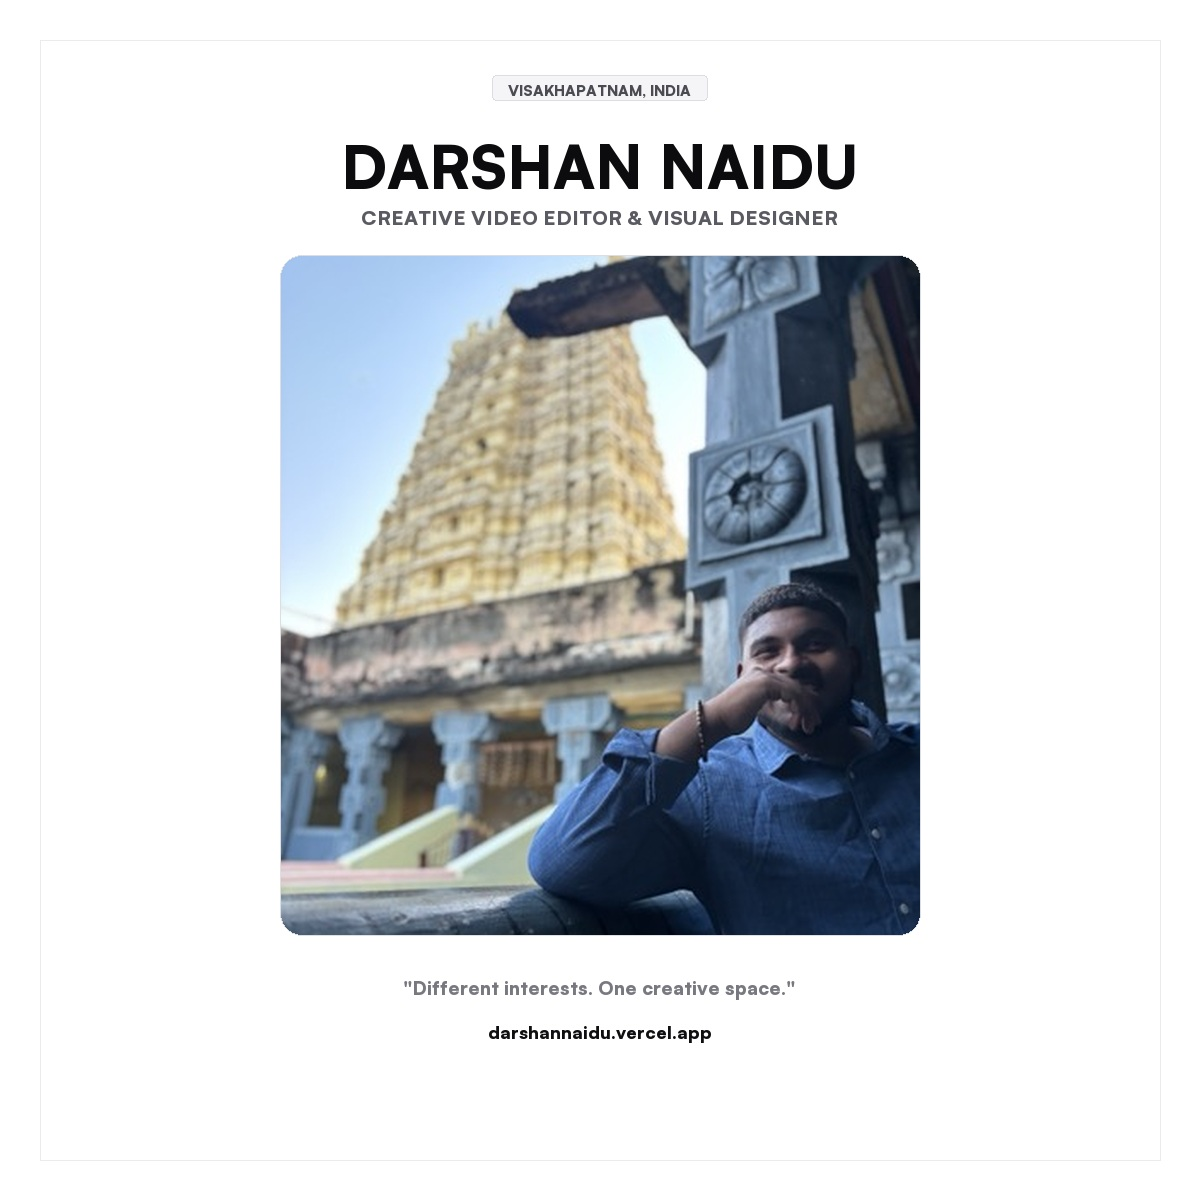
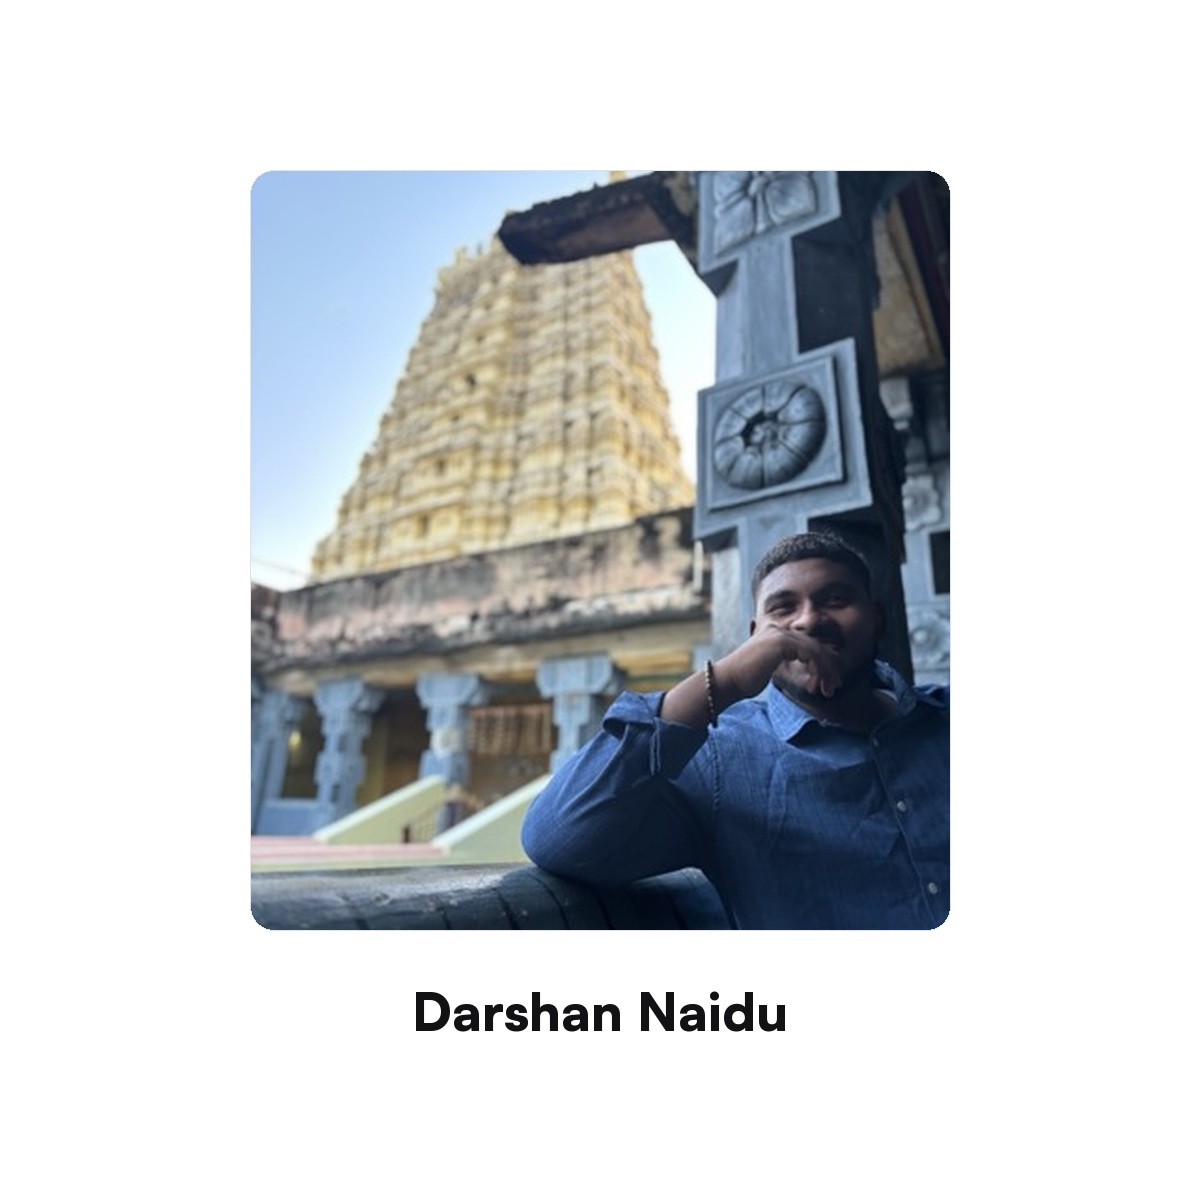
feat(preloader, og): remove image tiles from preloader for clean Darshan Naidu typography, and minimal white square OG card

Changed region(s): [[0.185, 0.1233, 0.8017, 0.8633], [0.4317, 0.0617, 0.5858, 0.0925]]

diff --git a/darshan/index.html b/darshan/index.html
@@ -180,7 +180,8 @@
         }
 
         /* Squircle Card Tile */
-        .image-tile {
+        .image-tile { display: none !important;
+
             position: absolute;
             top: 50%;
             left: 50%;
@@ -217,7 +218,8 @@
         }
 
         @media (prefers-reduced-motion: reduce) {
-            .char-slot, .char-glyph, .image-tile {
+            .char-slot, .char-glyph, .image-tile { display: none !important;
+
                 transition: none !important;
                 animation: none !important;
             }
@@ -230,23 +232,23 @@
         <!-- Figma Auto-Layout Wordmark: Darshan Naidu -->
         <div id="word" class="word-container" aria-label="Darshan Naidu">
             <!-- Darshan (indices 0 to 6) -->
-            <span class="char-slot" data-index="0" data-char="D"><span class="char-glyph">D</span><div class="image-tile"><img src="/assets/images/darshan/darshan.webp" alt=""></div></span>
-            <span class="char-slot" data-index="1" data-char="a"><span class="char-glyph">a</span><div class="image-tile"><img src="/assets/images/darshan/darshan.webp" alt="Darshan Portrait"></div></span>
-            <span class="char-slot" data-index="2" data-char="r"><span class="char-glyph">r</span><div class="image-tile"><img src="/assets/images/darshan/IMG_3763.webp" alt="Work"></div></span>
-            <span class="char-slot" data-index="3" data-char="s"><span class="char-glyph">s</span><div class="image-tile"><img src="/assets/images/darshan/IMG_4192.webp" alt=""></div></span>
-            <span class="char-slot" data-index="4" data-char="h"><span class="char-glyph">h</span><div class="image-tile"><img src="/assets/images/darshan/IMG_4364.webp" alt="Work"></div></span>
-            <span class="char-slot" data-index="5" data-char="a"><span class="char-glyph">a</span><div class="image-tile"><img src="/assets/images/darshan/IMG_6965.webp" alt=""></div></span>
-            <span class="char-slot" data-index="6" data-char="n"><span class="char-glyph">n</span><div class="image-tile"><img src="/assets/images/darshan/IMG_7845.webp" alt=""></div></span>
+            <span class="char-slot" data-index="0" data-char="D"><span class="char-glyph">D</span></span>
+            <span class="char-slot" data-index="1" data-char="a"><span class="char-glyph">a</span></span>
+            <span class="char-slot" data-index="2" data-char="r"><span class="char-glyph">r</span></span>
+            <span class="char-slot" data-index="3" data-char="s"><span class="char-glyph">s</span></span>
+            <span class="char-slot" data-index="4" data-char="h"><span class="char-glyph">h</span></span>
+            <span class="char-slot" data-index="5" data-char="a"><span class="char-glyph">a</span></span>
+            <span class="char-slot" data-index="6" data-char="n"><span class="char-glyph">n</span></span>
 
             <!-- Space separator -->
             <span class="char-space">&nbsp;</span>
 
             <!-- Naidu (indices 7 to 11) -->
-            <span class="char-slot" data-index="7" data-char="N"><span class="char-glyph">N</span><div class="image-tile"><img src="/assets/images/darshan/IMG_8863-EDIT.webp" alt=""></div></span>
-            <span class="char-slot" data-index="8" data-char="a"><span class="char-glyph">a</span><div class="image-tile"><img src="/assets/images/darshan/IMG_2461.webp" alt=""></div></span>
-            <span class="char-slot" data-index="9" data-char="i"><span class="char-glyph">i</span><div class="image-tile"><img src="/assets/images/darshan/IMG_1499.webp" alt="Work"></div></span>
-            <span class="char-slot" data-index="10" data-char="d"><span class="char-glyph">d</span><div class="image-tile"><img src="/assets/images/darshan/IMG_6965.webp" alt="Work"></div></span>
-            <span class="char-slot" data-index="11" data-char="u"><span class="char-glyph">u</span><div class="image-tile"><img src="/assets/images/darshan/IMG_8213.webp" alt=""></div></span>
+            <span class="char-slot" data-index="7" data-char="N"><span class="char-glyph">N</span></span>
+            <span class="char-slot" data-index="8" data-char="a"><span class="char-glyph">a</span></span>
+            <span class="char-slot" data-index="9" data-char="i"><span class="char-glyph">i</span></span>
+            <span class="char-slot" data-index="10" data-char="d"><span class="char-glyph">d</span></span>
+            <span class="char-slot" data-index="11" data-char="u"><span class="char-glyph">u</span></span>
         </div>
     </main>
 
@@ -401,66 +403,24 @@
 
             const tl = gsap.timeline({
                 repeat: -1,
-                repeatDelay: 0.2,
+                repeatDelay: 0.6,
                 defaults: { ease: "power2.out" }
             });
 
-            // ----------------------------------------------------
-            // PHASE A: Clean Initial Opening
-            // ----------------------------------------------------
-            slots.forEach((slot, idx) => {
-                const glyph = slot.querySelector('.char-glyph');
-                const tile = slot.querySelector('.image-tile');
-                tl.set(slot, { width: naturalWidths[idx] || 18, marginLeft: 0, marginRight: 0 }, 0);
-                tl.set(glyph, { opacity: 1, scale: 1 }, 0);
-                tl.set(tile, { opacity: 0, scale: 0.5, width: tileDimension, height: tileDimension }, 0);
-            });
-
-            // ----------------------------------------------------
-            // PHASE B: Card 1 blooms immediately (0.18s - 1.08s)
-            // Solo tile at i(9) in Naidu: "Darshan Na [photo] du"
-            // ----------------------------------------------------
-            setSlotState(tl, 9, { active: true, image: IMAGES.shot1, duration: 0.38 }, 0.18);
-            swapSlotImage(tl, 9, IMAGES.shot2, 0.62, 0.26);
-            setSlotState(tl, 9, { active: false, duration: 0.36 }, 1.08);
-
-            // ----------------------------------------------------
-            // PHASE C: Card 2 blooms in first name (1.20s - 2.05s)
-            // Solo tile at r(2) in Darshan: "Da [photo] shan Naidu"
-            // ----------------------------------------------------
-            setSlotState(tl, 2, { active: true, image: IMAGES.shot3, duration: 0.38 }, 1.20);
-            swapSlotImage(tl, 2, IMAGES.shot4, 1.58, 0.26);
-            setSlotState(tl, 2, { active: false, duration: 0.36 }, 2.05);
-
-            // ----------------------------------------------------
-            // PHASE D: Balanced Dual Bloom (2.18s - 3.12s)
-            // Exactly 1 tile in each word: h(4) in Darshan & d(10) in Naidu
-            // "Dars [photo] an Nai [photo] u"
-            // ----------------------------------------------------
-            setSlotState(tl, 4, { active: true, image: IMAGES.shot5, duration: 0.38 }, 2.18);
-            setSlotState(tl, 10, { active: true, image: IMAGES.shot6, duration: 0.38 }, 2.26);
-            swapSlotImage(tl, 10, IMAGES.shot7, 2.68, 0.26);
-            setSlotState(tl, 4, { active: false, duration: 0.36 }, 3.12);
-            setSlotState(tl, 10, { active: false, duration: 0.36 }, 3.16);
-
-            // ----------------------------------------------------
-            // PHASE E: Solo Hero Card (3.30s - 4.30s)
-            // Celebrations signature move: solo tile right after initial 'D'
-            // "D [Portrait] rshan Naidu"
-            // ----------------------------------------------------
-            setSlotState(tl, 1, { active: true, image: IMAGES.portrait, duration: 0.42 }, 3.30);
-
-            // ----------------------------------------------------
-            // PHASE F: Final Reset (4.30s - 4.70s)
-            // Clean transition back to typography
-            // ----------------------------------------------------
-            setSlotState(tl, 1, { active: false, duration: 0.40 }, 4.30);
-
-            // ----------------------------------------------------
-            // PHASE G: Resting Hold (4.70s - 5.50s)
-            // Crisp, confident pause before next cycle
-            // ----------------------------------------------------
-            tl.to({}, { duration: 0.8 }, 4.70);
+            const glyphs = document.querySelectorAll('.char-glyph');
+            tl.fromTo(glyphs,
+                { opacity: 0.35, y: 3 },
+                { opacity: 1, y: 0, stagger: 0.04, duration: 0.5, ease: "power2.out" },
+                0
+            );
+            tl.to(glyphs,
+                { opacity: 0.85, duration: 0.7, ease: "sine.inOut" },
+                "+=0.4"
+            );
+            tl.to(glyphs,
+                { opacity: 1, duration: 0.6, ease: "sine.inOut" },
+                "+=0.1"
+            );
 
             masterTimeline = tl;
             return tl;

diff --git a/dist/darshan/index.html b/dist/darshan/index.html
@@ -180,7 +180,8 @@
         }
 
         /* Squircle Card Tile */
-        .image-tile {
+        .image-tile { display: none !important;
+
             position: absolute;
             top: 50%;
             left: 50%;
@@ -217,7 +218,8 @@
         }
 
         @media (prefers-reduced-motion: reduce) {
-            .char-slot, .char-glyph, .image-tile {
+            .char-slot, .char-glyph, .image-tile { display: none !important;
+
                 transition: none !important;
                 animation: none !important;
             }
@@ -230,23 +232,23 @@
         <!-- Figma Auto-Layout Wordmark: Darshan Naidu -->
         <div id="word" class="word-container" aria-label="Darshan Naidu">
             <!-- Darshan (indices 0 to 6) -->
-            <span class="char-slot" data-index="0" data-char="D"><span class="char-glyph">D</span><div class="image-tile"><img src="/assets/images/darshan/darshan.webp" alt=""></div></span>
-            <span class="char-slot" data-index="1" data-char="a"><span class="char-glyph">a</span><div class="image-tile"><img src="/assets/images/darshan/darshan.webp" alt="Darshan Portrait"></div></span>
-            <span class="char-slot" data-index="2" data-char="r"><span class="char-glyph">r</span><div class="image-tile"><img src="/assets/images/darshan/IMG_3763.webp" alt="Work"></div></span>
-            <span class="char-slot" data-index="3" data-char="s"><span class="char-glyph">s</span><div class="image-tile"><img src="/assets/images/darshan/IMG_4192.webp" alt=""></div></span>
-            <span class="char-slot" data-index="4" data-char="h"><span class="char-glyph">h</span><div class="image-tile"><img src="/assets/images/darshan/IMG_4364.webp" alt="Work"></div></span>
-            <span class="char-slot" data-index="5" data-char="a"><span class="char-glyph">a</span><div class="image-tile"><img src="/assets/images/darshan/IMG_6965.webp" alt=""></div></span>
-            <span class="char-slot" data-index="6" data-char="n"><span class="char-glyph">n</span><div class="image-tile"><img src="/assets/images/darshan/IMG_7845.webp" alt=""></div></span>
+            <span class="char-slot" data-index="0" data-char="D"><span class="char-glyph">D</span></span>
+            <span class="char-slot" data-index="1" data-char="a"><span class="char-glyph">a</span></span>
+            <span class="char-slot" data-index="2" data-char="r"><span class="char-glyph">r</span></span>
+            <span class="char-slot" data-index="3" data-char="s"><span class="char-glyph">s</span></span>
+            <span class="char-slot" data-index="4" data-char="h"><span class="char-glyph">h</span></span>
+            <span class="char-slot" data-index="5" data-char="a"><span class="char-glyph">a</span></span>
+            <span class="char-slot" data-index="6" data-char="n"><span class="char-glyph">n</span></span>
 
             <!-- Space separator -->
             <span class="char-space">&nbsp;</span>
 
             <!-- Naidu (indices 7 to 11) -->
-            <span class="char-slot" data-index="7" data-char="N"><span class="char-glyph">N</span><div class="image-tile"><img src="/assets/images/darshan/IMG_8863-EDIT.webp" alt=""></div></span>
-            <span class="char-slot" data-index="8" data-char="a"><span class="char-glyph">a</span><div class="image-tile"><img src="/assets/images/darshan/IMG_2461.webp" alt=""></div></span>
-            <span class="char-slot" data-index="9" data-char="i"><span class="char-glyph">i</span><div class="image-tile"><img src="/assets/images/darshan/IMG_1499.webp" alt="Work"></div></span>
-            <span class="char-slot" data-index="10" data-char="d"><span class="char-glyph">d</span><div class="image-tile"><img src="/assets/images/darshan/IMG_6965.webp" alt="Work"></div></span>
-            <span class="char-slot" data-index="11" data-char="u"><span class="char-glyph">u</span><div class="image-tile"><img src="/assets/images/darshan/IMG_8213.webp" alt=""></div></span>
+            <span class="char-slot" data-index="7" data-char="N"><span class="char-glyph">N</span></span>
+            <span class="char-slot" data-index="8" data-char="a"><span class="char-glyph">a</span></span>
+            <span class="char-slot" data-index="9" data-char="i"><span class="char-glyph">i</span></span>
+            <span class="char-slot" data-index="10" data-char="d"><span class="char-glyph">d</span></span>
+            <span class="char-slot" data-index="11" data-char="u"><span class="char-glyph">u</span></span>
         </div>
     </main>
 
@@ -401,66 +403,24 @@
 
             const tl = gsap.timeline({
                 repeat: -1,
-                repeatDelay: 0.2,
+                repeatDelay: 0.6,
                 defaults: { ease: "power2.out" }
             });
 
-            // ----------------------------------------------------
-            // PHASE A: Clean Initial Opening
-            // ----------------------------------------------------
-            slots.forEach((slot, idx) => {
-                const glyph = slot.querySelector('.char-glyph');
-                const tile = slot.querySelector('.image-tile');
-                tl.set(slot, { width: naturalWidths[idx] || 18, marginLeft: 0, marginRight: 0 }, 0);
-                tl.set(glyph, { opacity: 1, scale: 1 }, 0);
-                tl.set(tile, { opacity: 0, scale: 0.5, width: tileDimension, height: tileDimension }, 0);
-            });
-
-            // ----------------------------------------------------
-            // PHASE B: Card 1 blooms immediately (0.18s - 1.08s)
-            // Solo tile at i(9) in Naidu: "Darshan Na [photo] du"
-            // ----------------------------------------------------
-            setSlotState(tl, 9, { active: true, image: IMAGES.shot1, duration: 0.38 }, 0.18);
-            swapSlotImage(tl, 9, IMAGES.shot2, 0.62, 0.26);
-            setSlotState(tl, 9, { active: false, duration: 0.36 }, 1.08);
-
-            // ----------------------------------------------------
-            // PHASE C: Card 2 blooms in first name (1.20s - 2.05s)
-            // Solo tile at r(2) in Darshan: "Da [photo] shan Naidu"
-            // ----------------------------------------------------
-            setSlotState(tl, 2, { active: true, image: IMAGES.shot3, duration: 0.38 }, 1.20);
-            swapSlotImage(tl, 2, IMAGES.shot4, 1.58, 0.26);
-            setSlotState(tl, 2, { active: false, duration: 0.36 }, 2.05);
-
-            // ----------------------------------------------------
-            // PHASE D: Balanced Dual Bloom (2.18s - 3.12s)
-            // Exactly 1 tile in each word: h(4) in Darshan & d(10) in Naidu
-            // "Dars [photo] an Nai [photo] u"
-            // ----------------------------------------------------
-            setSlotState(tl, 4, { active: true, image: IMAGES.shot5, duration: 0.38 }, 2.18);
-            setSlotState(tl, 10, { active: true, image: IMAGES.shot6, duration: 0.38 }, 2.26);
-            swapSlotImage(tl, 10, IMAGES.shot7, 2.68, 0.26);
-            setSlotState(tl, 4, { active: false, duration: 0.36 }, 3.12);
-            setSlotState(tl, 10, { active: false, duration: 0.36 }, 3.16);
-
-            // ----------------------------------------------------
-            // PHASE E: Solo Hero Card (3.30s - 4.30s)
-            // Celebrations signature move: solo tile right after initial 'D'
-            // "D [Portrait] rshan Naidu"
-            // ----------------------------------------------------
-            setSlotState(tl, 1, { active: true, image: IMAGES.portrait, duration: 0.42 }, 3.30);
-
-            // ----------------------------------------------------
-            // PHASE F: Final Reset (4.30s - 4.70s)
-            // Clean transition back to typography
-            // ----------------------------------------------------
-            setSlotState(tl, 1, { active: false, duration: 0.40 }, 4.30);
-
-            // ----------------------------------------------------
-            // PHASE G: Resting Hold (4.70s - 5.50s)
-            // Crisp, confident pause before next cycle
-            // ----------------------------------------------------
-            tl.to({}, { duration: 0.8 }, 4.70);
+            const glyphs = document.querySelectorAll('.char-glyph');
+            tl.fromTo(glyphs,
+                { opacity: 0.35, y: 3 },
+                { opacity: 1, y: 0, stagger: 0.04, duration: 0.5, ease: "power2.out" },
+                0
+            );
+            tl.to(glyphs,
+                { opacity: 0.85, duration: 0.7, ease: "sine.inOut" },
+                "+=0.4"
+            );
+            tl.to(glyphs,
+                { opacity: 1, duration: 0.6, ease: "sine.inOut" },
+                "+=0.1"
+            );
 
             masterTimeline = tl;
             return tl;
